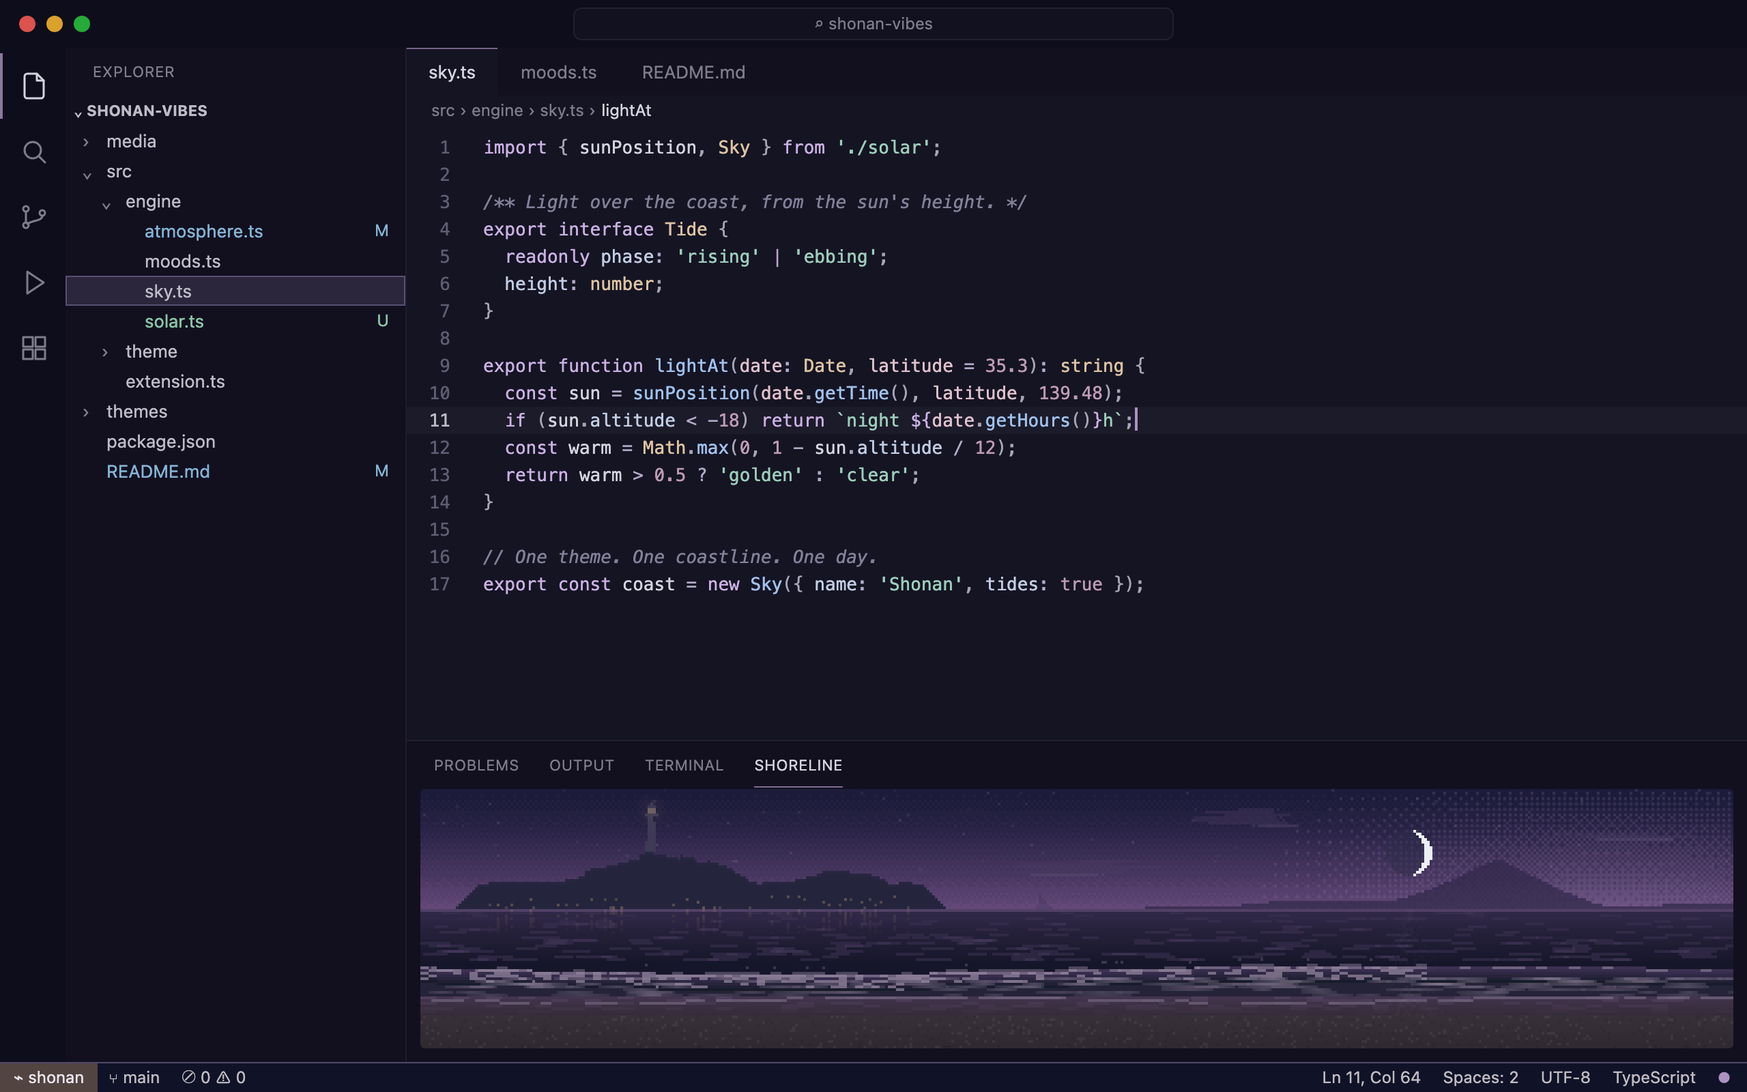
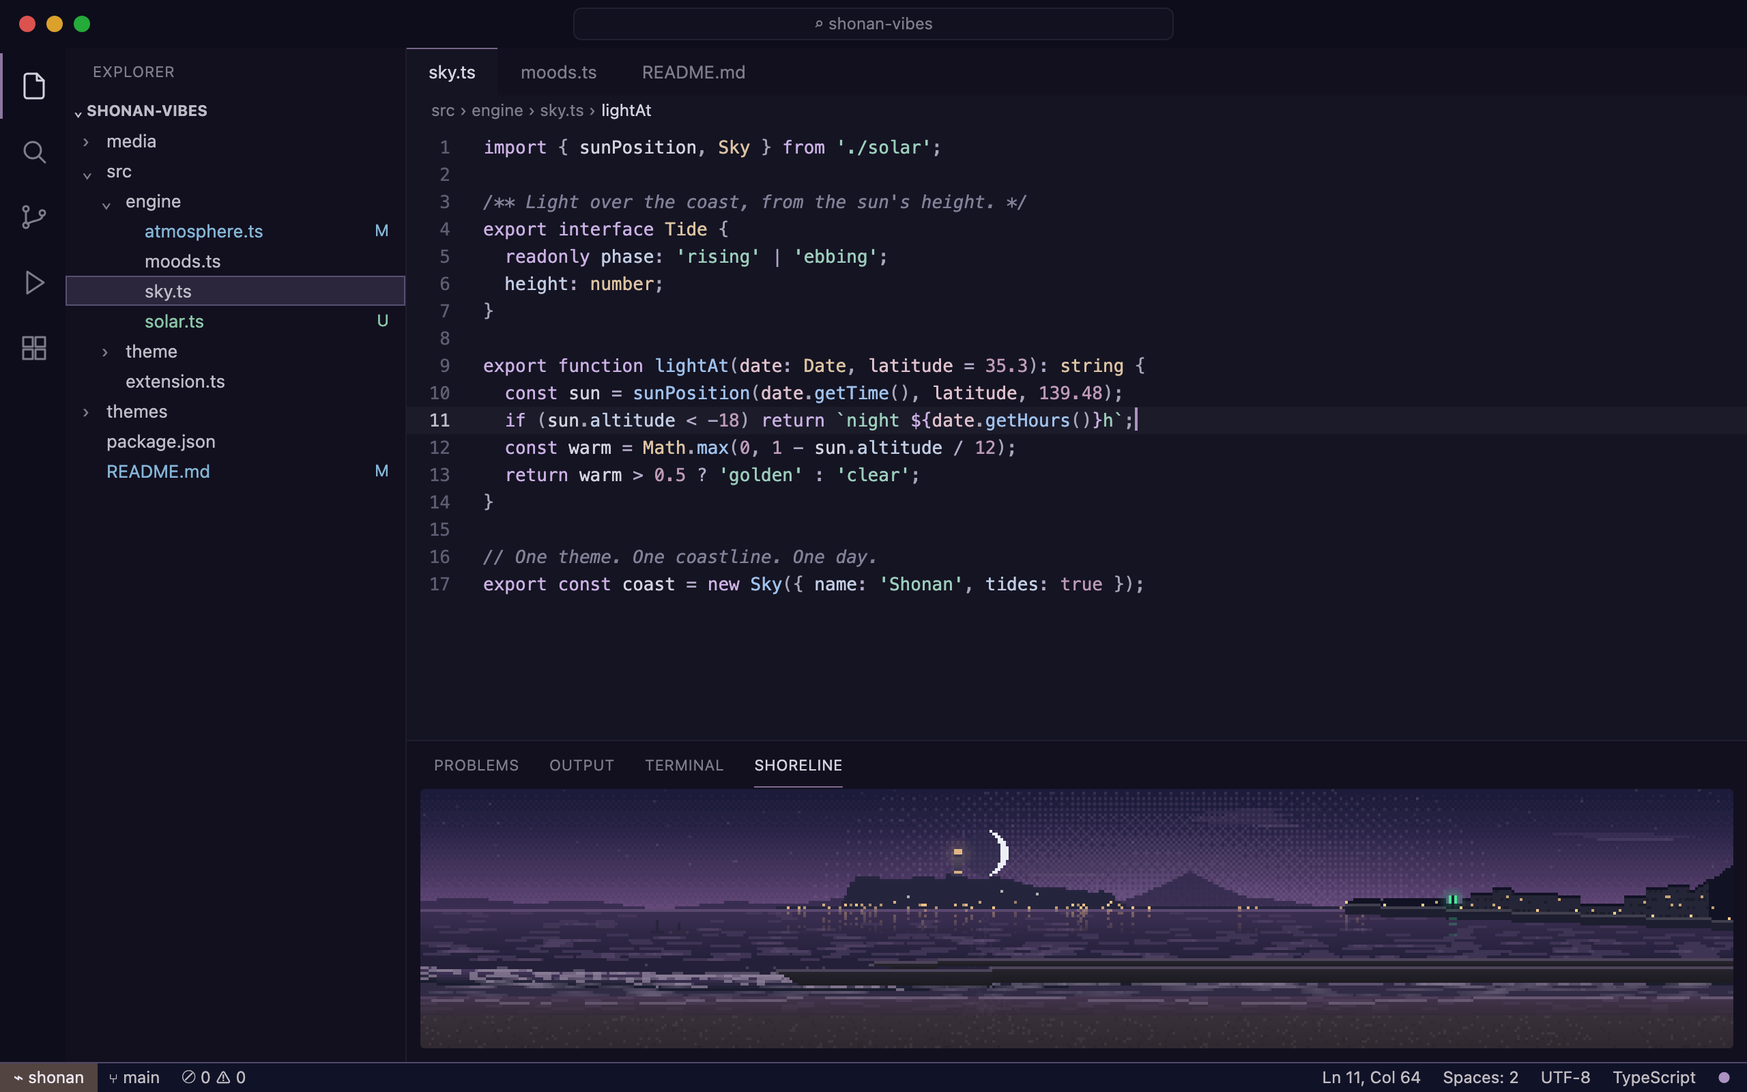
Release 0.4.0: Shoreline redrawn after a real photograph of Enoshima
The scene is now seen from Koshigoe on the Kamakura side, after a photo
by the author: Enoshima's true profile (a sheer cliff, a flat wooded top
with the Sea Candle, a long slope toward the causeway), Fuji just beyond,
the line of lights along the causeway, the Koshigoe shore with apartment
blocks and its green harbor light, concrete breakwaters in front, two
surfers by day, and a calmer, silvery sea. Lights come on as the sun goes
down, fully by 6 degrees below the horizon.

Changed region(s): [[0.25, 0.7812, 1.0, 0.9062]]

diff --git a/media/shoreline.js b/media/shoreline.js
@@ -1,7 +1,7 @@
 // Shoreline: a pixel-art Shonan coast that follows the editor's light.
-// Seen from the beach at Tsujido, facing the sea: Enoshima close on the left,
-// the sun and moon rising on the left and setting on the right over Izu,
-// Hakone and Fuji.
+// Seen from Koshigoe on the Kamakura side, after a photograph by the author:
+// Enoshima and Fuji across the water, the Koshigoe shore on the right,
+// concrete breakwaters in front.
 // Plain script, no dependencies. Renders on demand; the optional shimmer is a
 // one-frame-per-second redraw that stops whenever the view is hidden.
 (function () {
@@ -118,10 +118,12 @@
     return { horizonY, surfY, wetY, dryY, k, u };
   }
 
-  // Facing the sea from Tsujido: east (sunrise) left, west (sunset, Izu,
-  // Hakone, Fuji) right, Enoshima close on the left.
+  // Facing Enoshima from Koshigoe: the open sea (south) on the left, where
+  // the sun crosses by day; sunsets behind Enoshima, Fuji and Hakone; the
+  // Kamakura shore on the right. The sun's track is widened a little so the
+  // midday sun stays in view.
   function azimuthX(az, W) {
-    return W / 2 + ((az - 180) / 105) * (W / 2);
+    return W / 2 + ((az - 250) / 120) * (W / 2);
   }
   function altitudeY(alt, horizonY, u) {
     return horizonY - 1 - Math.pow(clamp01(alt / 70), 0.75) * (horizonY - 6 * u);
@@ -281,132 +283,213 @@
       }
     }
 
-    // --- Far coast to the west: Izu and Hakone, with Fuji, lost in haze by day
-    const ridgeBase = mix(horizonSky, mix(zenith, ocean, 0.5), 0.3 + 0.4 * (1 - daylight));
-    const ridgeAlpha = 0.3 + 0.45 * (1 - daylight * 0.7);
-    for (let x = Math.floor(W * 0.55); x < W; x++) {
+    // --- Distant land along the horizon (Izu, Hakone) and Fuji just right of
+    // Enoshima, as seen from Koshigoe. Lost in haze by day, a band at dusk.
+    const farLand = mix(horizonSky, mix(zenith, ocean, 0.5), 0.3 + 0.45 * (1 - daylight));
+    const farAlpha = 0.28 + 0.5 * (1 - daylight * 0.75);
+    for (let x = 0; x < Math.round(W * 0.74); x++) {
       const v = x / W;
-      let h = (1.5 + Math.sin(v * 40) * 0.6 + Math.sin(v * 17 + 1) * 0.9) * u;
-      const peak = Math.max(0, 1 - Math.abs(v - 0.82) / 0.085);
-      h += Math.pow(peak, 1.35) * 9.6 * u;
-      h *= clamp01((v - 0.55) / 0.06);
-      for (let y = 0; y < h; y++) blend(x, horizonY - 1 - y, ridgeBase, ridgeAlpha);
+      let h = (1.2 + 0.8 * Math.sin(v * 23 + 0.4) + 0.6 * Math.sin(v * 61)) * u;
+      const fuji = Math.max(0, 1 - Math.abs(v - 0.585) / 0.06);
+      h = Math.max(h, (Math.pow(fuji, 1.25) * 8 + 1) * u * (fuji > 0 ? 1 : 0));
+      h *= clamp01((0.74 - v) / 0.04);
+      for (let y = 0; y < h; y++) blend(x, horizonY - 1 - y, farLand, farAlpha);
     }
 
-    // A distant sail on the horizon.
-    if (daylight > 0.05 || lowWarm > 0.2) {
-      const bx = Math.round(W * 0.47);
-      const sail = mix(ocean, zenith, 0.5);
-      const sa = 0.55 * Math.max(daylight, lowWarm);
-      const sh = Math.max(2, Math.round(3.2 * u));
-      for (let y = 0; y < sh; y++) {
-        const w = Math.max(1, Math.round(((y + 1) / sh) * 1.6 * k));
-        for (let x = 0; x < w; x++) blend(bx + x, horizonY - 2 - (sh - 1 - y), sail, sa);
-      }
-      for (let x = -1; x <= Math.round(2 * k); x++) blend(bx + x, horizonY - 1, sail, sa);
-    }
-
-    // --- Open sea: rows darkening toward the shore, flecks of reflected sky
-    const seaTop = mix(ocean, horizonSky, 0.35);
-    const seaLow = dim(ocean, 0.2);
+    // --- Open sea: calm and silvery, mirroring the sky, with fine ripples
+    const seaTop = mix(ocean, horizonSky, 0.5);
+    const seaLow = mix(dim(ocean, 0.15), horizonSky, 0.16);
     for (let y = horizonY; y < surfY; y++) {
       const v = (y - horizonY) / Math.max(1, surfY - horizonY);
-      const row = mix(seaTop, seaLow, Math.pow(v, 0.8));
+      const row = mix(seaTop, seaLow, Math.pow(v, 0.75));
       const period = Math.max(2, Math.round(2 + v * 3 * k));
-      const banded = (y - horizonY) % period === period - 1 ? dim(row, 0.035) : row;
+      const banded = (y - horizonY) % period === period - 1 ? dim(row, 0.03) : row;
       for (let x = 0; x < W; x++) set(x, y, banded);
     }
-    for (let x = 0; x < W; x++) blend(x, horizonY, lift(horizonSky, 0.1), 0.45);
-    const fleck = mix(seaTop, lift(horizonSky, 0.12), 0.4);
+    for (let x = 0; x < W; x++) blend(x, horizonY, lift(horizonSky, 0.12), 0.5);
+    const fleck = mix(seaTop, lift(horizonSky, 0.2), 0.5);
     for (let y = horizonY + 1; y < surfY; y++) {
       const v = (y - horizonY) / Math.max(1, surfY - horizonY);
       const offset = Math.floor(t * (0.4 + v * 1.2) * k);
-      const density = 0.012 + 0.04 * v;
+      const density = 0.015 + 0.05 * v;
       for (let x = 0; x < W; x++) {
         if (hash(x + offset, y, 3) < density) {
-          const len = Math.round((2 + hash(x, y, 5) * (2 + v * 4)) * k);
-          for (let j = 0; j < len; j++) blend(x + j, y, fleck, 0.2 + 0.2 * v);
+          const len = Math.round((2 + hash(x, y, 5) * (2 + v * 5)) * k);
+          for (let j = 0; j < len; j++) blend(x + j, y, fleck, 0.22 + 0.22 * v);
         }
       }
     }
 
-    // --- Enoshima: wooded hill, the Sea Candle lighthouse, a town at its foot
-    const ix0 = Math.round(W * 0.025);
-    const ix1 = Math.round(W * 0.4);
+    // --- Enoshima, from the Kamakura side: a sheer cliff on the left, a flat
+    // wooded top with the Sea Candle, a long slope down to the right, and a
+    // line of lights along its foot and the causeway.
+    // Lights come on as the sun goes down, fully by 6° below the horizon.
+    const lights = clamp01(Math.max(night * 1.3, (4 - alt) / 10));
+    const pulse = t ? (Math.floor(t / 2) % 3 === 0 ? 1 : 0.6) : 0.85;
     const isle = mix(
-      mix(lift(mix(ocean, zenith, 0.5), 0.05), horizonSky, 0.32 * daylight),
+      mix(lift(mix(ocean, zenith, 0.5), 0.05), horizonSky, 0.3 * daylight),
       [12, 14, 26],
-      Math.max(0.35 * night, 0.4 * lowWarm * (1 - daylight * 0.5)),
+      Math.max(0.4 * night, 0.45 * lowWarm * (1 - daylight * 0.5)),
     );
-    const canopyLit = mix(isle, lift(horizonSky, 0.1), 0.18 * daylight + 0.12 * lowWarm);
+    const canopyLit = mix(isle, lift(horizonSky, 0.1), 0.16 * daylight + 0.1 * lowWarm);
+    const ix0 = Math.round(W * 0.3);
+    const ix1 = Math.round(W * 0.545);
+    const top = 8 * u;
+    // Profile traced from the photograph: [position across the island, height].
+    const PROFILE = [
+      [0, 0.06], [0.08, 0.1], [0.11, 0.86], [0.14, 0.98], [0.26, 0.95], [0.36, 0.99],
+      [0.46, 1.02], [0.56, 0.96], [0.66, 0.78], [0.76, 0.6], [0.83, 0.56], [0.87, 0.58],
+      [0.91, 0.42], [0.95, 0.16], [1, 0.06],
+    ];
+    const profile = (v) => {
+      for (let i = 0; i < PROFILE.length - 1; i++) {
+        const [a, ha] = PROFILE[i];
+        const [b, hb] = PROFILE[i + 1];
+        if (v >= a && v <= b) return ha + ((hb - ha) * (v - a)) / (b - a);
+      }
+      return 0;
+    };
     const heights = [];
     for (let x = ix0; x <= ix1; x++) {
       const v = (x - ix0) / (ix1 - ix0);
-      const hill = Math.max(Math.exp(-Math.pow((v - 0.42) / 0.2, 2)), 0.62 * Math.exp(-Math.pow((v - 0.78) / 0.15, 2)), 0.35);
-      const taper = clamp01(v / 0.05) * clamp01((1 - v) / 0.05);
-      // Tree clumps: blocky bumps, a few pixels wide.
-      const clump = Math.floor(x / Math.max(2, Math.round(2.5 * k)));
-      const bump = hash(clump, 5, 53) * 1.6 * u;
-      heights.push(Math.round((2.2 * u + hill * 10.5 * u + bump) * taper));
+      const clump = Math.floor(x / Math.max(2, Math.round(2.2 * k)));
+      const bump = v > 0.12 && v < 0.93 ? (hash(clump, 5, 53) - 0.3) * 1.1 * u : 0;
+      heights.push(Math.max(1, Math.round(profile(v) * top + bump)));
     }
     heights.forEach((h, i) => {
       const x = ix0 + i;
-      for (let y = 0; y < h; y++) set(x, horizonY - 1 - y, y >= h - Math.max(1, Math.round(u * 0.6)) ? canopyLit : isle);
+      for (let y = 0; y < h; y++) set(x, horizonY - 1 - y, y >= h - Math.max(1, Math.round(u * 0.5)) ? canopyLit : isle);
     });
-    // Buildings along the waterline.
-    for (let x = ix0 + Math.round(4 * k); x < ix1 - Math.round(4 * k); x++) {
-      const block = Math.floor(x / Math.max(2, Math.round(2 * k)));
-      if (hash(block, 6, 59) < 0.55) {
-        const bh = Math.round((1 + hash(block, 7, 61) * 2.5) * u) + Math.round(2.2 * u);
-        for (let y = 0; y < bh; y++) set(x, horizonY - 1 - y, isle);
-      }
+    // Low land at both ends: the spit on the left, the harbor and causeway on the right.
+    for (let x = ix0 - Math.round(W * 0.03); x < Math.round(W * 0.72); x++) {
+      if (x >= ix0 && x <= ix1) continue;
+      const h = x < ix0 ? Math.round(0.6 * u) : Math.max(1, Math.round(0.5 * u * (1 - (x - ix1) / (W * 0.18))));
+      for (let y = 0; y < h; y++) set(x, horizonY - 1 - y, isle);
     }
-    // The Sea Candle: tapered tower, observation deck, lantern.
-    const tx = Math.round(ix0 + (ix1 - ix0) * 0.4);
-    const hillTop = heights[tx - ix0] || 0;
-    const towerH = Math.round(9 * u);
-    const towerCol = mix(isle, lift(horizonSky, 0.25), 0.25 + 0.3 * daylight);
-    const baseY = horizonY - 1 - hillTop;
+    // The Sea Candle: tapered tower, a lit observation deck, the lantern.
+    const tx = Math.round(ix0 + (ix1 - ix0) * 0.44);
+    const baseY = horizonY - 1 - (heights[tx - ix0] || 0);
+    const towerH = Math.round(4.6 * u);
+    const towerCol = mix(isle, lift(horizonSky, 0.25), 0.22 + 0.3 * daylight);
     for (let y = 0; y < towerH; y++) {
-      const w = Math.max(1, Math.round((2 - 0.9 * (y / towerH)) * k));
+      const w = Math.max(1, Math.round((1.9 - 0.8 * (y / towerH)) * k));
       for (let x = 0; x < w; x++) set(tx - (w >> 1) + x, baseY - y, towerCol);
     }
-    // Observation deck, then a lantern room with a small dome: a candle, not a cross.
     const deckY = baseY - towerH;
-    const deckW = Math.max(3, Math.round(2.6 * k));
+    const deckW = Math.max(3, Math.round(2.4 * k));
     for (let x = 0; x < deckW; x++) set(tx - (deckW >> 1) + x, deckY, towerCol);
-    const tw = Math.max(1, Math.round(1.6 * k));
-    const lanternH = Math.max(1, Math.round(1.4 * k));
-    for (let r = 1; r <= lanternH; r++) {
-      for (let x = 0; x < tw; x++) set(tx - (tw >> 1) + x, deckY - r, towerCol);
-    }
-    const lampY = deckY - Math.ceil(lanternH / 2);
-    const domeW = Math.max(1, tw - 2);
-    for (let x = 0; x < domeW; x++) set(tx - (domeW >> 1) + x, deckY - lanternH - 1, towerCol);
-    const lights = clamp01(night * 1.3 + (alt < 4 ? 0.35 * lowWarm : 0));
+    const tw = Math.max(1, Math.round(1.4 * k));
+    const lanternH = Math.max(1, Math.round(1.2 * k));
+    for (let r = 1; r <= lanternH; r++) for (let x = 0; x < tw; x++) set(tx - (tw >> 1) + x, deckY - r, towerCol);
     if (lights > 0.05) {
-      const pulse = t ? (Math.floor(t / 2) % 3 === 0 ? 1 : 0.6) : 0.85;
-      for (let r = 0; r < Math.max(1, lanternH - 1); r++) {
-        for (let x = 0; x < tw; x++) blend(tx - (tw >> 1) + x, lampY - r + (lanternH > 2 ? 1 : 0), WARM_LIGHT, lights * pulse);
+      for (let r = 1; r <= lanternH; r++) {
+        for (let x = 0; x < tw; x++) blend(tx - (tw >> 1) + x, deckY - r, WARM_LIGHT, lights * pulse);
       }
-      const R = Math.ceil(3 * k);
+      const R = Math.ceil(3.2 * k);
       for (let dy = -R; dy <= R; dy++) {
         for (let dx = -R; dx <= R; dx++) {
-          const d = Math.hypot(dx, dy) / (3 * k);
-          if (d < 1 && d > 0.25) blend(tx + dx, lampY + dy, WARM_LIGHT, 0.22 * lights * pulse * (1 - d));
+          const d = Math.hypot(dx, dy) / (3.2 * k);
+          if (d < 1 && d > 0.25) blend(tx + dx, deckY - lanternH / 2 + dy, WARM_LIGHT, 0.2 * lights * pulse * (1 - d));
         }
       }
-      // Town lights, and their reflections on the water.
-      for (let x = ix0 + Math.round(5 * k); x < ix1 - Math.round(5 * k); x++) {
-        if (hash(x, 3, 67) > 0.22) continue;
-        const ly = horizonY - 1 - Math.floor(hash(x, 4, 71) * 3.2 * u);
+      // The lit band at the foot of the tower, a few lights on the hillside.
+      for (let x = -1; x <= 1; x++) blend(tx + x, baseY - Math.round(0.4 * u), WARM_LIGHT, 0.8 * lights);
+      for (let x = ix0 + Math.round(W * 0.03); x < ix1 - Math.round(W * 0.03); x++) {
+        if (hash(x, 13, 131) < 0.035) {
+          const h = heights[x - ix0];
+          blend(x, horizonY - 1 - Math.round(h * (0.35 + 0.4 * hash(x, 14, 137))), [236, 236, 228], 0.7 * lights);
+        }
+      }
+      // Lights along the foot of the island and the causeway, mirrored on the sea.
+      for (let x = ix0 - Math.round(W * 0.03); x < Math.round(W * 0.72); x++) {
+        const onIsland = x >= ix0 && x <= ix1;
+        if (hash(x, 3, 67) > (onIsland ? 0.3 : 0.12)) continue;
+        const ly = horizonY - 1 - (onIsland ? Math.floor(hash(x, 4, 71) * 1.6 * u) : 0);
         const on = lights * (0.55 + 0.45 * hash(x, 8, 73));
         blend(x, ly, WARM_LIGHT, on);
-        for (let y = horizonY; y < horizonY + 7 * u; y++) {
-          if (hash(x, y, 79 + Math.floor(t / 2)) < 0.45) {
-            blend(x, y, WARM_LIGHT, on * 0.45 * (1 - (y - horizonY) / (7 * u)));
+        for (let y = horizonY; y < horizonY + 6 * u; y++) {
+          if (hash(x, y, 79 + Math.floor(t / 2)) < 0.4) blend(x, y, WARM_LIGHT, on * 0.4 * (1 - (y - horizonY) / (6 * u)));
+        }
+      }
+    }
+
+    // --- Koshigoe on the right: the seawall, the green harbor light,
+    // apartment blocks with lit windows, and the hill rising to Kamakura.
+    {
+      const x0 = Math.round(W * 0.705);
+      // By day: wooded hill, white-beige blocks, grey seawall, a little haze.
+      // From sunset on they become silhouettes.
+      const f = clamp01(1 - daylight * 1.15);
+      const dark = mix(zenith, [8, 10, 18], 0.55);
+      const land = mix(mix([62, 86, 72], horizonSky, 0.25), dark, f);
+      const block = mix(mix([206, 204, 196], horizonSky, 0.2), lift(dark, 0.08), f);
+      const wall = mix(mix([150, 148, 140], horizonSky, 0.15), lift(dark, 0.05), f);
+      const shore = (x) => horizonY + Math.round(((x - x0) / (W - x0)) * 4 * u);
+      const tops = [];
+      for (let x = x0; x < W; x++) {
+        const v = (x - x0) / (W - x0);
+        let h = (1.5 + 1.2 * Math.sin(v * 9)) * u; // trees behind the harbor
+        if (v > 0.3 && v < 0.93) {
+          const b = Math.floor(x / Math.max(3, Math.round(4 * k)));
+          h = Math.max(h, (3.5 + hash(b, 15, 139) * 6) * u * (0.6 + 0.6 * v));
+        }
+        if (v > 0.72) h = Math.max(h, Math.pow((v - 0.72) / 0.28, 1.4) * 15 * u);
+        tops.push(Math.round(h));
+      }
+      tops.forEach((h, i) => {
+        const x = x0 + i;
+        const v = i / (W - x0);
+        const base = shore(x) - Math.round(1.5 * u);
+        const isBlock = v > 0.3 && v < 0.93 && h > 3 * u;
+        for (let y = 0; y < h; y++) {
+          const window = isBlock && y % Math.max(2, Math.round(1.5 * k)) === 1 && hash(x, y, 163) < 0.3;
+          set(x, base - y, isBlock && y < h - 1 ? (window ? dim(block, 0.22) : block) : land);
+        }
+        // Seawall at the water's edge.
+        for (let y = base; y <= shore(x) + Math.round(0.8 * u); y++) set(x, y, y === base ? lift(wall, 0.15) : wall);
+      });
+      if (lights > 0.05) {
+        // Windows and street lamps.
+        tops.forEach((h, i) => {
+          const x = x0 + i;
+          const base = shore(x) - Math.round(1.5 * u);
+          for (let y = Math.round(1.5 * u); y < h - 1; y += Math.max(2, Math.round(1.5 * k))) {
+            if (hash(x, y, 149) < 0.09) blend(x, base - y, WARM_LIGHT, 0.75 * lights);
+          }
+          if (i % Math.round(7 * k) === 0) blend(x, base - 1, WARM_LIGHT, lights);
+        });
+        // The green harbor light, and its long reflection.
+        const gx = Math.round(W * 0.785);
+        const gy = shore(gx) - Math.round(4.2 * u);
+        const green = [70, 232, 150];
+        const R = Math.ceil(2.6 * k);
+        for (let dy = -R; dy <= R; dy++) {
+          for (let dx = -R; dx <= R; dx++) {
+            const d = Math.hypot(dx, dy) / (2.6 * k);
+            if (d < 1) blend(gx + dx, gy + dy, green, (d < 0.3 ? 1 : 0.35 * (1 - d)) * lights);
           }
         }
+        for (let y = shore(gx) + Math.round(u); y < surfY; y++) {
+          const fade = 1 - (y - shore(gx)) / Math.max(1, surfY - shore(gx));
+          if (hash(gx, y, 151 + Math.floor(t / 2)) < 0.35) {
+            for (let dx = -Math.round(k / 2); dx <= Math.round(k / 2); dx++) blend(gx + dx, y, green, 0.28 * lights * fade);
+          }
+        }
+      }
+      // The light's post, visible by day too.
+      const gx = Math.round(W * 0.785);
+      for (let y = 1; y < Math.round(4 * u); y++) set(gx, shore(gx) - Math.round(1.5 * u) - y, wall);
+    }
+
+    // Two surfers waiting for a wave, by day.
+    if (night < 0.6) {
+      const sa = 0.7 * (1 - night);
+      const figure = mix(isle, [20, 24, 34], 0.4);
+      for (const [fx, tall] of [[0.18, 2.4], [0.195, 2.1]]) {
+        const x = Math.round(W * fx);
+        const y = horizonY + Math.round(5 * u);
+        for (let j = 0; j < Math.round(tall * u); j++) for (let w = 0; w < Math.max(1, Math.round(0.6 * k)); w++) blend(x + w, y - j, figure, sa);
+        for (let j = -Math.round(1.2 * k); j <= Math.round(1.2 * k); j++) blend(x + j, y + 1, figure, sa * 0.8);
       }
     }
 
@@ -491,6 +574,33 @@
           if (hash(x, y, 11 + Math.floor(t / 2)) < 0.4 * fall) blend(x, y, lightSrc.c, lightSrc.s * fall);
         }
       }
+    }
+
+    // --- Concrete breakwaters in the foreground, as on the beach at Koshigoe.
+    {
+      const concrete = mix(
+        mix(dim(beach, 0.15), [150, 150, 146], 0.45),
+        mix(zenith, [10, 12, 20], 0.5),
+        Math.max(0.85 * night, 0.55 * (1 - daylight)),
+      );
+      const topLit = mix(concrete, lift(horizonSky, 0.15), 0.35);
+      const face = dim(concrete, 0.32);
+      const slab = (start, top0, rise, surface, depth) => {
+        const xs = Math.round(W * start);
+        for (let x = xs; x < W; x++) {
+          const v = (x - xs) / Math.max(1, W - xs);
+          const yTop = Math.round(top0 - rise * v);
+          const tip = Math.min(1, (x - xs) / (4 * k));
+          const faceH = Math.max(1, Math.round(depth * tip));
+          for (let j = 0; j < surface; j++) set(x, yTop + j, mix(topLit, concrete, j / Math.max(1, surface)));
+          for (let j = 0; j < faceH; j++) set(x, yTop + surface + j, mix(face, dim(face, 0.25), j / faceH));
+          const h = hash(Math.floor(x / (2 * k)), 16, 157 + Math.floor(t / 2));
+          if (h < 0.55) blend(x, yTop + surface + faceH, foam, 0.45 + 0.2 * daylight);
+          if (x - xs < 3 * k && h < 0.8) blend(x - Math.round(k), yTop + surface + faceH - 1, foam, 0.4);
+        }
+      };
+      slab(0.345, surfY - 0.3 * u, 0.6 * u, Math.max(1, Math.round(0.5 * u)), 1.4 * u);
+      slab(0.27, surfY + 1.8 * u, 0.4 * u, Math.max(1, Math.round(0.8 * u)), 3.2 * u);
     }
 
     ctx.putImageData(img, 0, 0);

diff --git a/README.md b/README.md
@@ -36,7 +36,7 @@ The bottom of the window is treated as the coast:
 
 - **Status bar = the sea.** It takes the ocean's color for the hour. Its top border is a thin horizon line in the color of the light: a faint silver thread at night, brighter at sunrise and sunset. The remote indicator at the far left sits on a strip of sand.
 - **The light dot.** A small dot at the far right of the status bar takes the color of the current light: moon, dawn, sun or sunset. Hover it for the phase, the sun's height, and today's sunrise and sunset. Click it to open the Shoreline.
-- **Shoreline view.** VS Code themes can only set solid colors, so the pixel-art coast lives in its own view (*Shoreline*, in the bottom panel). Seen from the beach at Tsujido, it shows Enoshima close on the left with its Sea Candle lighthouse and the town lights at its foot, the far coast of Izu and Hakone with Fuji to the west, a breaking wave, wet sand that mirrors the sky, stars, and the moon in its real phase. It redraws only when the light changes. An optional, very slow shimmer runs only while the view is visible and respects reduced-motion settings.
+- **Shoreline view.** VS Code themes can only set solid colors, so the pixel-art coast lives in its own view (*Shoreline*, in the bottom panel). Seen from Koshigoe on the Kamakura side (drawn after a photograph by the author), it shows Enoshima with its cliff and the Sea Candle lighthouse, Fuji just beyond, the line of lights along the causeway, the Koshigoe shore with its green harbor light, concrete breakwaters in front, a calm sea that mirrors the sky, stars, and the moon in its real phase. It redraws only when the light changes. An optional, very slow shimmer runs only while the view is visible and respects reduced-motion settings.
 - **Shoreline tab.** Run **Shonan Vibes: Open Shoreline** to scrub through today and preview any hour on a sample of code. Previewing doesn't touch your editor. **Hold the light here** keeps that hour until you choose **Follow the sun**.
 
 ![The Shoreline tab at golden hour, with the time scrubber and a code preview](media/screenshots/shoreline.png)

diff --git a/CHANGELOG.md b/CHANGELOG.md
@@ -1,5 +1,10 @@
 # Changelog
 
+## 0.4.0
+
+- Shoreline redrawn after a real photograph, from Koshigoe on the Kamakura side: Enoshima's true profile (a sheer cliff, a flat wooded top with the Sea Candle, a long slope toward the causeway), Fuji just beyond it, the line of lights along the causeway, the Koshigoe shore with apartment blocks and the green harbor light, concrete breakwaters in the foreground, two surfers by day, and a calmer, silvery sea.
+- Island and shore lights come on as the sun goes down, fully by 6° below the horizon.
+
 ## 0.3.0
 
 - Shoreline drawn at twice the resolution (about 480 pixels across) and recomposed from the beach at Tsujido: Enoshima close on the left with a wooded skyline, the Sea Candle lighthouse and town lights that reflect on the water at dusk and night; a breaking wave with clumped foam and lacy whitewash; wet sand that mirrors the sky; long cloud streaks lit from below at sunrise and sunset; a distant sail by day.
